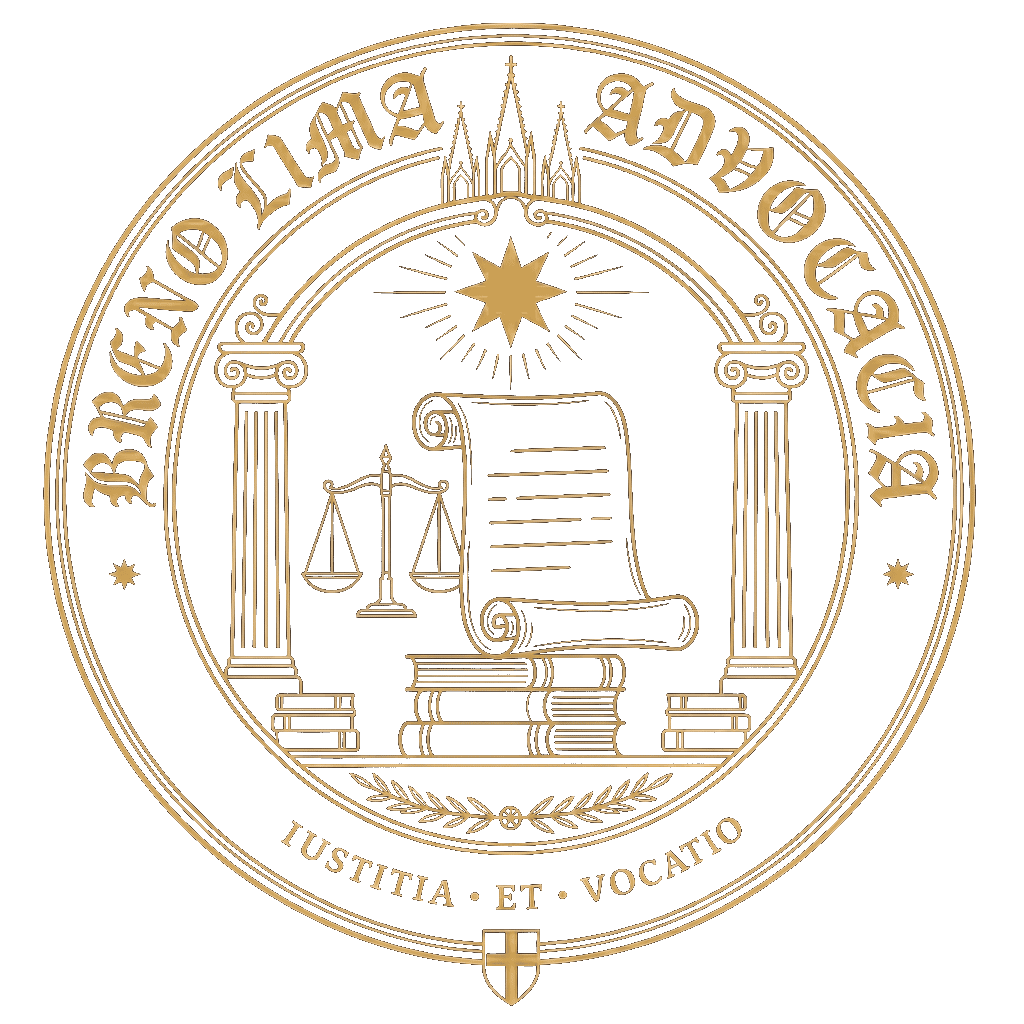
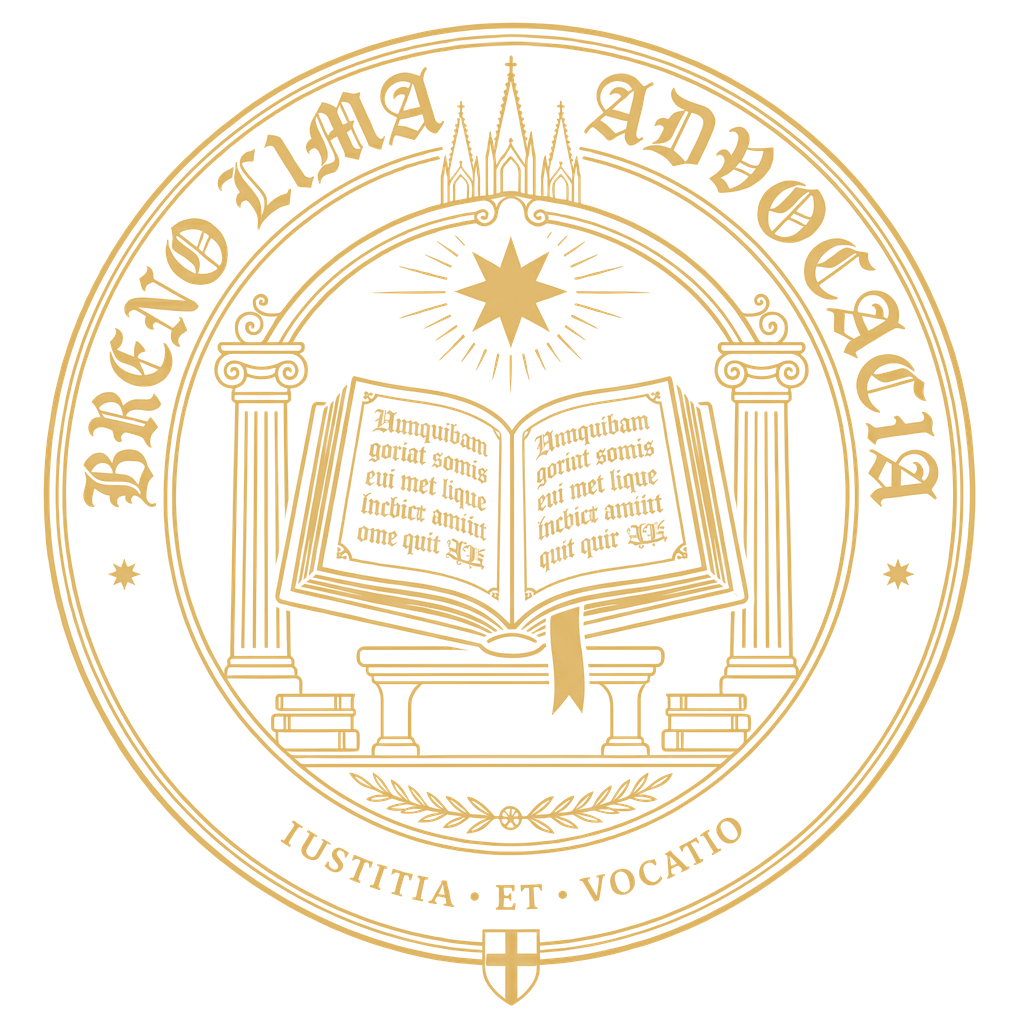
Substitui criança lendo no selo por livro entreaberto (v4)
Selo heráldico mantém a mesma identidade visual (anel blackletter, colunas iônicas, balança, estrela radiante, pináculos góticos, IUSTITIA ET VOCATIO), trocando apenas a figura central — o menino sentado lendo dá lugar a um livro entreaberto em perspectiva 3/4 sobre o pedestal. Cache-bust ?v=5.

Changed region(s): [[0.0312, 0.0, 0.9688, 0.9688], [0.875, 0.6562, 0.9062, 0.7188]]

diff --git a/index.html b/index.html
@@ -19,7 +19,7 @@
 <meta name="twitter:card" content="summary_large_image" />
 <link rel="icon" type="image/png" href="assets/favicon-v3.png?v=1" />
 <link rel="apple-touch-icon" href="assets/favicon-v3.png?v=1" />
-<link rel="preload" as="image" href="assets/seal-v3-gold.png" fetchpriority="high" />
+<link rel="preload" as="image" href="assets/seal-v3-gold.png?v=5" fetchpriority="high" />
 <link rel="preload" as="video" href="assets/hero-video.mp4" type="video/mp4" />
 <link rel="preconnect" href="https://fonts.googleapis.com" />
 <link rel="preconnect" href="https://fonts.gstatic.com" crossorigin />
@@ -967,7 +967,7 @@
 <nav class="nav" id="nav">
   <div class="nav-inner">
     <a href="#top" class="brand" aria-label="Breno Lima Advocacia">
-      <img class="brand-seal" src="assets/seal-v3-gold.png" alt="Selo Breno Lima Advocacia" width="54" height="54" />
+      <img class="brand-seal" src="assets/seal-v3-gold.png?v=5" alt="Selo Breno Lima Advocacia" width="54" height="54" />
       <img class="brand-wordmark" src="assets/wordmark-empiric.png" alt="Breno Lima Advocacia" />
     </a>
     <button class="nav-burger" aria-label="Abrir menu" aria-expanded="false" aria-controls="nav-links-menu" id="navBurger">
@@ -1008,7 +1008,7 @@
   <div class="hero-corner br"><svg viewBox="0 0 80 80"><path d="M2 32 L2 2 L32 2"/><path d="M2 14 L14 2"/><circle cx="2" cy="2" r="3" class="corner-star" fill="currentColor" stroke="none"/></svg></div>
 
   <div class="hero-logo">
-    <img class="hero-seal" src="assets/seal-v3-gold.png" alt="Selo heráldico Breno Lima Advocacia" width="280" height="280" fetchpriority="high" />
+    <img class="hero-seal" src="assets/seal-v3-gold.png?v=5" alt="Selo heráldico Breno Lima Advocacia" width="280" height="280" fetchpriority="high" />
     <div class="hero-divider" aria-hidden="true"></div>
     <h1 class="hero-wordmark">
       <img class="hero-wordmark-img" src="assets/wordmark-empiric.png" alt="Breno Lima Advocacia" />
@@ -1147,7 +1147,7 @@
 
 <!-- ============= QUEM SOU ============= -->
 <section class="about" id="sobre">
-  <img class="about-watermark" src="assets/seal-v3-gold.png" alt="" aria-hidden="true" />
+  <img class="about-watermark" src="assets/seal-v3-gold.png?v=5" alt="" aria-hidden="true" />
   <div class="wrap">
     <div class="about-grid portrait-layout">
       <div class="about-portrait" data-reveal="left">
@@ -1381,7 +1381,7 @@
 
 <!-- ============= FAQ ============= -->
 <section class="faq-section" id="faq">
-  <img class="faq-watermark" src="assets/seal-v3-gold.png" alt="" aria-hidden="true" />
+  <img class="faq-watermark" src="assets/seal-v3-gold.png?v=5" alt="" aria-hidden="true" />
   <div class="wrap">
     <div class="shead" data-reveal="up">
       <div class="shead-eye"><span>Dúvidas Frequentes</span></div>
@@ -1523,7 +1523,7 @@
     <div class="footer-grid">
       <div>
         <div class="footer-brand">
-          <img src="assets/seal-v3-gold.png" alt="" width="54" height="54" />
+          <img src="assets/seal-v3-gold.png?v=5" alt="" width="54" height="54" />
           <img class="footer-brand-wm" src="assets/wordmark-empiric.png" alt="Breno Lima Advocacia" />
         </div>
         <div class="footer-tag">Atendimento direto, análise minuciosa e cuidado artesanal — para causas Cíveis, Previdenciárias, Trabalhistas e de Sucessões.</div>
